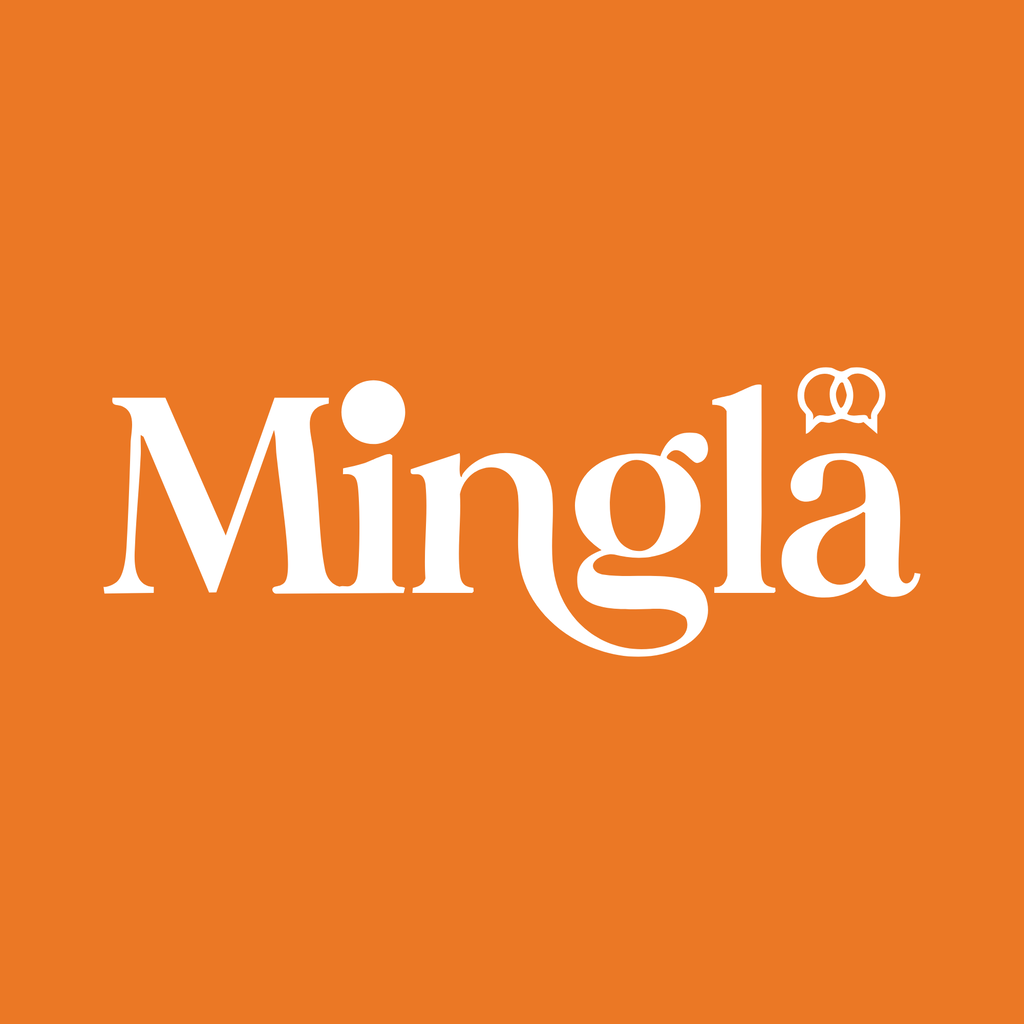
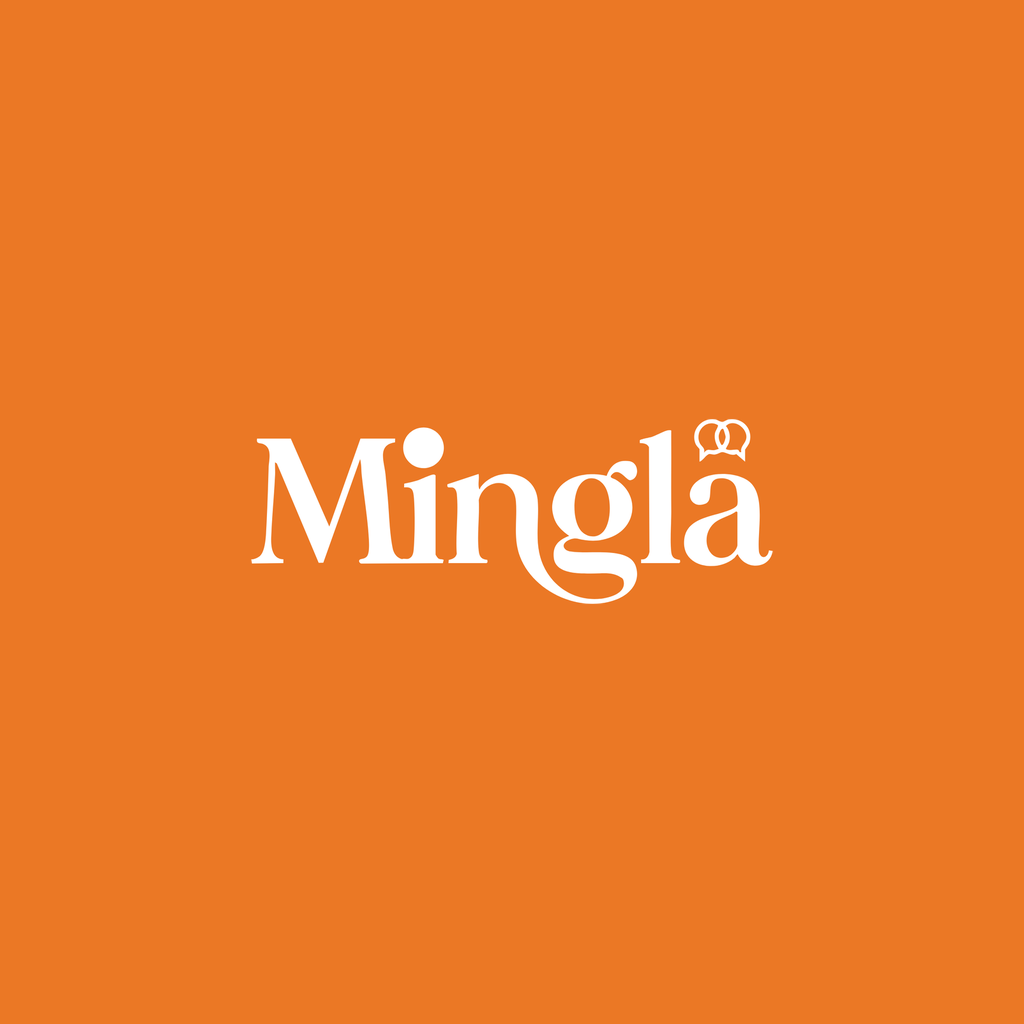
#2220 + #2223: stop the launcher and the browser tab cropping our marks
Two icon defects found reviewing 1.1.5, both asset-only. No native build is cut
for either; they ride whatever the next build turns out to be.

#2220 — HOST'S ANDROID ICON IS CROPPED, AND IT IS A REPEAT.
Android composites an adaptive icon at 108dp and guarantees only the centre
66dp (61.1%). Host's wordmark spanned 79.7%, so circular and squircle launchers
cut both ends; the themed/monochrome icon spanned 69.4% and lost the same way.
5102565cf fixed exactly this on 2026-05-30 — its subject is literally "add
safe-zone margin so adaptive mask doesn't crop" — and a5e567565, the Business ->
Host rebrand, undid it on 2026-08-14. It shipped publicly in 1.1.5. Both assets
are rescaled to 51%, the span the May fix used. Same orange, same wordmark, same
canvas; only the scale moves. Consumer was already fine at 53.7% and is untouched.

#2223 — THE TAB ICON WAS THE WORDMARK.
Host's favicon was the wide wordmark squeezed into 48x48 — ink 37x13, aspect
2.71 — an unreadable smear at the 16px a tab actually renders. Both apps now use
the chat mark: the two interwoven speech bubbles already used as the Android
notification icon, whose generator calls it "the chat flourish above the 'a' in
the wordmark". Recoloured from white, which vanishes on a light tab, to brand
orange #eb7825 on transparent, which reads on both. The wordmark keeps every
other surface — splash, notifications, store listings, in-app. Admin already
[…]

Changed region(s): [[0.0938, 0.3438, 0.9062, 0.6562]]

diff --git a/scripts/ci/issue-2220-icon-geometry.py b/scripts/ci/issue-2220-icon-geometry.py
@@ -1,0 +1,167 @@
+#!/usr/bin/env python3
+"""#2220 / #2223 — icon geometry gate.
+
+Two measurements CI never made, each corresponding to a defect that reached
+production:
+
+LAUNCHER SAFE ZONE (#2220). Android composites an adaptive icon at 108dp but
+only guarantees the centre 66dp — 61.1% — is visible; circular and squircle
+launchers clip the rest. Host's wordmark spanned 79.7% and both ends were cut.
+This exact defect was fixed once (5102565cf, 2026-05-30, "add safe-zone margin
+so adaptive mask doesn't crop") and reintroduced by the Business -> Host rebrand
+(a5e567565, #2065), shipping publicly in 1.1.5. Nothing noticed, because nothing
+measured the pixels.
+
+TAB LEGIBILITY (#2223). Host's favicon was the wide wordmark squeezed into a
+48px square — ink 37x13, aspect 2.85 — an unreadable smear at the 16px a tab
+renders. Admin had already hit this and switched to a square mark (ISSUE-1001).
+
+Pillow does the decoding on purpose. A hand-rolled PNG reader was tried first
+and died three times on real repo assets — greyscale+alpha, Adam7 interlacing,
+then palette colour — each time failing the build with a format error instead of
+a measurement. A gate that cannot read the files it guards is worse than no gate.
+
+  --self-test  proves both measurements catch deliberately broken icons.
+"""
+import sys
+from PIL import Image
+
+SAFE_FRACTION = 66 / 108      # Android's guaranteed-visible centre
+TOLERANCE = 0.02              # 61.1% -> fails above ~63.1%
+FAVICON_MAX_ASPECT = 1.6      # a wordmark is ~2.9:1
+
+ADAPTIVE = [
+    ("mingla-business/assets/images/android-icon-foreground.png", (235, 120, 37)),
+    ("mingla-business/assets/images/android-icon-monochrome.png", None),
+    ("app-mobile/assets/adaptive-icon.png", None),
+]
+FAVICONS = [
+    "app-mobile/assets/favicon.png",
+    "mingla-business/assets/images/favicon.png",
+]
+
+
+def ink_box(path, background=None):
+    """Bounding box of visible content.
+
+    Transparent art is measured by alpha. Opaque art — the Host foreground bakes
+    the brand orange in — is measured against its background colour, because an
+    alpha test would call the entire canvas content and pass a broken icon.
+    """
+    im = Image.open(path).convert("RGBA")
+    w, h = im.size
+    alpha = im.split()[-1]
+    if background is None:
+        box = alpha.getbbox()
+        # A FULLY OPAQUE image tells an alpha test nothing — it reports the whole
+        # canvas as content and would wave through the very wordmark favicon this
+        # gate exists to reject. Fall back to the corner colour as the ground.
+        if box == (0, 0, w, h) and alpha.getextrema() == (255, 255):
+            background = im.convert("RGB").getpixel((0, 0))
+        else:
+            return w, h, box
+    rgb = im.convert("RGB").load()
+    a = alpha.load()
+    left, top, right, bottom = w, h, -1, -1
+    for y in range(h):
+        for x in range(w):
+            if a[x, y] <= 16:
+                continue
+            c = rgb[x, y]
+            if max(abs(c[0] - background[0]), abs(c[1] - background[1]),
+                   abs(c[2] - background[2])) <= 28:
+                continue
+            if x < left: left = x
+            if x > right: right = x
+            if y < top: top = y
+            if y > bottom: bottom = y
+    box = None if right < left else (left, top, right + 1, bottom + 1)
+    return w, h, box
+
+
+def check_adaptive(assets):
+    failures = []
+    limit = SAFE_FRACTION + TOLERANCE
+    for path, background in assets:
+        w, _h, box = ink_box(path, background)
+        span = 0.0 if box is None else (box[2] - box[0]) / w
+        ok = span <= limit
+        print(f"  {'ok ' if ok else 'FAIL'} {span * 100:5.1f}%  (max {limit * 100:.1f}%)  {path}")
+        if not ok:
+            failures.append(
+                f"{path}: content spans {span * 100:.1f}% of the canvas; Android only "
+                f"guarantees the centre {SAFE_FRACTION * 100:.1f}%, so launchers crop it")
+    return failures
+
+
+def check_favicons(paths):
+    failures = []
+    for path in paths:
+        _w, _h, box = ink_box(path)
+        if box is None:
+            failures.append(f"{path}: no visible ink")
+            print(f"  FAIL empty        {path}")
+            continue
+        iw, ih = box[2] - box[0], box[3] - box[1]
+        aspect = max(iw / ih, ih / iw)
+        ok = aspect <= FAVICON_MAX_ASPECT
+        print(f"  {'ok ' if ok else 'FAIL'} aspect {aspect:4.2f}  (max {FAVICON_MAX_ASPECT})  {path}")
+        if not ok:
+            failures.append(
+                f"{path}: ink is {aspect:.2f}:1, too wide to read at 16px; "
+                f"use the square chat mark, not the wordmark")
+    return failures
+
+
+def _fixture(size, draw):
+    import tempfile, os
+    im = Image.new("RGBA", (size, size), (0, 0, 0, 0))
+    draw(im)
+    fd, tmp = tempfile.mkstemp(suffix=".png"); os.close(fd)
+    im.save(tmp)
+    return tmp
+
+
+def self_test():
+    import os
+    # Mirrors the real defect: an opaque brand-colour canvas with the mark
+    # running nearly edge to edge. A plain filled square would not do — the
+    # opaque fallback correctly reads a uniform canvas as pure background.
+    def _edge(im):
+        im.paste((235, 120, 37, 255), (0, 0, 64, 64))
+        im.paste((255, 255, 255, 255), (2, 24, 62, 40))
+    edge = _fixture(64, _edge)
+    wide = _fixture(64, lambda im: im.paste((255, 255, 255, 255), (0, 24, 64, 40)))
+    try:
+        if not check_adaptive([(edge, None)]):
+            print("#2220 self-test FAILED: an edge-to-edge launcher icon was not caught")
+            return 1
+        if not check_favicons([wide]):
+            print("#2223 self-test FAILED: a wordmark-shaped favicon was not caught")
+            return 1
+        if check_adaptive(ADAPTIVE) or check_favicons(FAVICONS):
+            print("#2220/#2223 self-test FAILED: the shipped assets do not pass a clean run")
+            return 1
+    finally:
+        os.unlink(edge); os.unlink(wide)
+    print("#2220/#2223 self-test passed "
+          "(oversized launcher icon and wordmark favicon both caught; real assets clean).")
+    return 0
+
+
+def main():
+    if "--self-test" in sys.argv:
+        return self_test()
+    failures = check_adaptive(ADAPTIVE) + check_favicons(FAVICONS)
+    if failures:
+        print("\n#2220/#2223 icon geometry gate FAILED:")
+        for f in failures:
+            print(f"  - {f}")
+        return 1
+    print("#2220/#2223 icon geometry gate: launcher icons inside the safe zone, "
+          "tab icons legibly square.")
+    return 0
+
+
+if __name__ == "__main__":
+    sys.exit(main())
